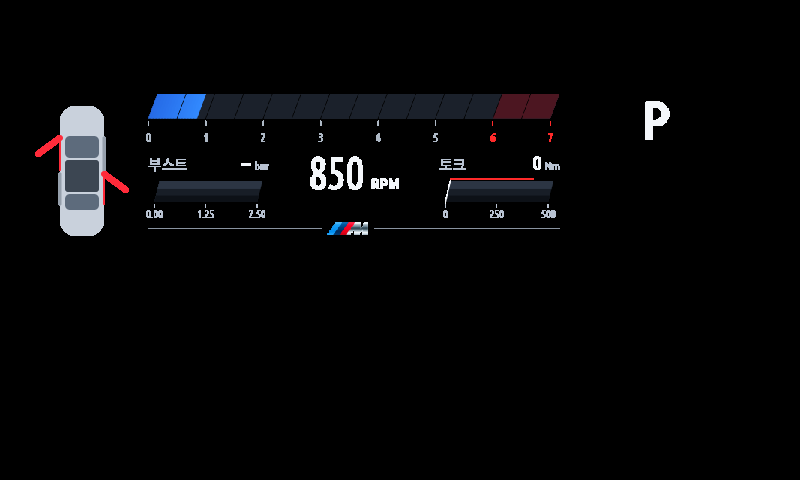
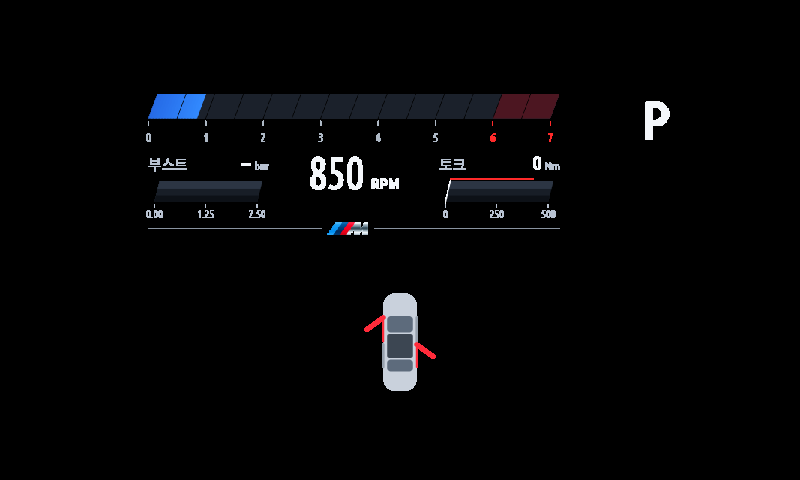
Cluster Redline 1.3.20: door-open picture in the middle, with Position / size
The door-open picture sits in the middle of the HUD below the RPM face and the
turn arrows by default, and gets its own Position / size (move, size, hide,
preview with every door open) from Basic -> Door-open warning.

Claude-Session: https://claude.ai/code/session_01LR6i2U2cVprmp7fS2LvR7P

Changed region(s): [[0.0312, 0.2188, 0.1562, 0.5], [0.4375, 0.5938, 0.5625, 0.8125]]

diff --git a/apps/cluster_redline/settings-ui.js b/apps/cluster_redline/settings-ui.js
@@ -18,16 +18,17 @@ const RL_KEYS=Object.keys(DEFAULTS).filter(k=>/^(hud|cluster)Rl/.test(k)),defaul
 const TURN_KEYS=Object.keys(D.defaults).filter(k=>/^hudTurn/.test(k));
 const TURN_ITEM={key:'turn',label:'Turn signals on HUD',type:'action'};
 // Settings per driver (driver-profiles.js): kept outside app.json; main.js sets page.driverStatus.
-const DOOR_ITEM={key:'hudDoorAlert',label:'Door-open warning',type:'choice',options:[['on',tr('On')],['off',tr('Off')]]};
+const DOOR_ITEM={key:'hudDoorAlert',label:'Door-open warning',type:'action'};
+const DOOR_KEYS=Object.keys(D.defaults).filter(k=>/^hudDoor/.test(k));
 const DRIVER_ITEM={key:'driverProfiles',label:'Settings per driver',type:'choice',options:[['off',tr('Off')],['on',tr('On')]]};
 // Vehicle alerts (vehicle-alerts.js): kept outside app.json, like the turn signals.
 const ALERT_KEYS=Object.keys(D.defaults).filter(k=>/^hudCarAlert/.test(k));
 const ALERT_ITEM={key:'hudCarAlerts',label:'Vehicle alerts',type:'choice',options:[['off',tr('Off')],['speed',tr('Speeding')],['school',tr('School zone')],['camera',tr('Speed camera')],['all',tr('Show all')]]};
 // Screens whose buttons are the cursor's stops (layoutActions).
-const ACTION_SCREENS=['layout','layoutPresets','turn','navColor'];
+const ACTION_SCREENS=['layout','layoutPresets','turn','navColor','door'];
 const NAV_COLOR_LABELS={orange:'Orange',green:'Green',blue:'Blue',white:'White'};
 const TURN_STYLE_LABELS={arrow:'Default arrow',chevron3:'<<<  >>>',chevron:'<  >'},TURN_COLOR_LABELS={green:'Green',blue:'Blue',orange:'Orange'};
-const FAV_EXTRA=['clockZone','hudDesign','clusterDesign','comfortShiftRpm','clusterYieldGuidance','hudRlLayouts','clusterRlLayouts','navTextColor','hudDoorAlert'].concat(TURN_KEYS,ALERT_KEYS);
+const FAV_EXTRA=['clockZone','hudDesign','clusterDesign','comfortShiftRpm','clusterYieldGuidance','hudRlLayouts','clusterRlLayouts','navTextColor'].concat(DOOR_KEYS).concat(TURN_KEYS,ALERT_KEYS);
 function favKeys(schema){const skip=k=>k==='appEnabled'||k==='layoutPreview'||/LayoutSlot\d|^favorite\d|^_/.test(k);return schema.map(s=>s.key).concat(FAV_EXTRA,Object.keys(DEFAULTS).filter(k=>/^(hud|cluster)Rl/.test(k))).filter((k,i,a)=>!skip(k)&&a.indexOf(k)===i);}
 // Settings per driver (driver-profiles.js): the whole setup a favourite keeps, plus the favourites themselves, so each
 // driver has their own five favourites.
@@ -71,7 +72,7 @@ function vector(cv,x,y,s){
 }
 class SettingsPage{
  constructor(settings,changed,version){this.settings=settings;this.changed=changed||(()=>{});this.version=version;this.tab=0;this.focus=0;this.open=null;this.choice=0;this.layoutPart=0;this.layoutParam=0;this.draft=null;this.layoutActions=[];this.layoutSelected=new Set();}
- config(){const raw={};this.settings.schema.forEach(s=>{raw[s.key]=this.settings.get(s.key);});['clockZone','layoutPreview','hudDesign','clusterDesign','comfortShiftRpm','clusterYieldGuidance','navTextColor','hudDoorAlert'].concat(RL_KEYS,TURN_KEYS,ALERT_KEYS).forEach(k=>{if(raw[k]===undefined)raw[k]=this.settings.get(k);});return effective(raw);}
+ config(){const raw={};this.settings.schema.forEach(s=>{raw[s.key]=this.settings.get(s.key);});['clockZone','layoutPreview','hudDesign','clusterDesign','comfortShiftRpm','clusterYieldGuidance','navTextColor'].concat(RL_KEYS,TURN_KEYS,ALERT_KEYS,DOOR_KEYS).forEach(k=>{if(raw[k]===undefined)raw[k]=this.settings.get(k);});return effective(raw);}
  display(){return this.tab===2?'cluster':'hud';}
  keys(){return this.tab===FAV_TAB?[]:GROUPS[this.tab];}
  item(){const key=this.keys()[this.focus];if(key==='turn')return TURN_ITEM;if(key==='hudCarAlerts')return ALERT_ITEM;if(key==='driverProfiles')return DRIVER_ITEM;if(key==='hudDoorAlert')return DOOR_ITEM;if(key==='comfortShiftRpm')return COMFORT_ITEM;if(key==='clusterYieldGuidance')return YIELD_ITEM;if(['aux','design','layout'].includes(key))return {key,label:{aux:'Auxiliary information',design:'Design',layout:'Position / size'}[key],type:'action'};return this.settings.schema.find(s=>s.key===key);}
@@ -86,7 +87,7 @@ class SettingsPage{
   else if(this.open==='rlDesign'){this.open='design';this.choice=2;}
   else if(this.open==='auxSelect'){this.open='auxMode';this.draft=null;this.choice=0;}
   else if(this.open==='layoutPresets'){this.open='layout';this.choice=0;this.presetMessage='';}
-  else if(this.open==='layout'&&this.layoutKind==='turn'){this.setPreview(false);this.layoutKind=null;this.open='turn';this.choice=0;}
+  else if(this.open==='layout'&&(this.layoutKind==='turn'||this.layoutKind==='door')){this.setPreview(false);this.open=this.layoutKind;this.layoutKind=null;this.choice=0;}
   else{if(this.open==='layout')this.setPreview(false);this.open=null;this.draft=null;this.layoutKind=null;}
   this.changed();
  }
@@ -110,13 +111,14 @@ class SettingsPage{
   if(item.key==='comfortShiftRpm')return cfg.comfortShiftRpm?cfg.comfortShiftRpm+' rpm':tr('Automatic')+' · '+Math.round(cfg.shiftRpm*0.9/100)*100+' rpm';
   const selected=options(item,cfg).find(o=>o[0]===(item.key==='clusterYieldGuidance'||item.key==='hudCarAlerts'?cfg[item.key]:this.settings.get(item.key)));return selected?t(selected[1]):t('Check required');
  }
- change(delta){if(this.tab===FAV_TAB&&!this.open||this.open==='favView')return;if(this.open==='layoutPresets'||this.open==='turn'||this.open==='navColor')return;if(this.open==='layout'){this.adjust(this.layoutParam,delta);return;}const item=this.item(),list=options(item,this.config());if(!list.length){this.activate();return;}const at=list.findIndex(o=>o[0]===this.settings.get(item.key));this.settings.set(item.key,list[(at+delta+list.length)%list.length][0]);this.changed();}
+ change(delta){if(this.tab===FAV_TAB&&!this.open||this.open==='favView')return;if(this.open==='layoutPresets'||this.open==='turn'||this.open==='navColor'||this.open==='door')return;if(this.open==='layout'){this.adjust(this.layoutParam,delta);return;}const item=this.item(),list=options(item,this.config());if(!list.length){this.activate();return;}const at=list.findIndex(o=>o[0]===this.settings.get(item.key));this.settings.set(item.key,list[(at+delta+list.length)%list.length][0]);this.changed();}
  activate(index){
   if(index!==undefined)this.focus=index;
   if(this.tab===FAV_TAB&&!this.open){this.favAction(Math.floor(this.focus/3)+1,this.focus%3);return;}
   const item=this.item();if(!item)return;
   this.choice=0;
   if(item.key==='turn')this.open='turn';
+  else if(item.key==='hudDoorAlert')this.open='door';
   else if(item.key==='aux')this.open='auxMode';
   else if(item.key==='design'){this.open='design';this.choice=RL.active(this.config(),this.display())?2:this.config()[this.display()+'AlertStyle']==='circle'?1:0;}
   else if(item.key==='layout'){this.open='layout';this.layoutPart=0;this.layoutParam=0;this.layoutSelected=new Set([this.layoutParts()[0].key]);this.setPreview(true);}
@@ -159,6 +161,7 @@ class SettingsPage{
   if(this.open==='layout')this.drawLayout(cv,cfg,targets);
   else if(this.open==='layoutPresets')this.drawPresets(cv,cfg,targets);
   else if(this.open==='turn')this.drawTurn(cv,cfg,targets);
+  else if(this.open==='door')this.drawDoor(cv,cfg,targets);
   else if(this.open==='auxMode')this.drawAuxMode(cv,cfg,targets);
   else if(this.open==='auxSelect')this.drawAuxSelect(cv,cfg,targets);
   else if(this.open==='design')this.drawDesign(cv,cfg,targets);
@@ -304,6 +307,16 @@ class SettingsPage{
   const dir={off:'Off',left:'Left',right:'Right',both:'Both (hazards)'}[s.indicator]||String(s.indicator);
   return [head+': '+tr('received')+' '+s.received,tr(dir)+(s.drawnIn?' · '+tr(s.drawnIn==='redline-hud'?'in the Redline HUD':'overlay'):'')];
  }
+ // The door-open warning: on / off, what it does, and Position / size of its HUD picture.
+ drawDoor(cv,cfg,targets){
+  const local=[],set=(k,v)=>{this.settings.set(k,v);this.changed();};
+  cv.text(tr('Door-open warning'),100,126,32,'#ef4050',{literal:true});
+  [['on','On'],['off','Off']].forEach((o,i)=>this.button(cv,local,tr(o[1]),84+i*740,146,712,64,()=>set('hudDoorAlert',o[0]),cfg.hudDoorAlert===o[0],'door-'+o[0]));
+  cv.text(tr('While a door is open: the car on the HUD with the open doors in red; the cluster gives way to the car warning.'),100,262,24,'#c1cddd',{literal:true});
+  cv.text(this.doorValue(cfg),100,300,22,'#91a1b6',{literal:true});
+  this.button(cv,local,tr('Position / size'),84,448,700,64,()=>{this.layoutKind='door';this.open='layout';this.layoutPart=0;this.layoutParam=0;this.layoutSelected=new Set(['Door']);this.setPreview(true);this.changed();},false,'door-layout');
+  this.layoutActions=local;targets.push.apply(targets,local);this.backButton(cv,targets);
+ }
  // HUD turn signals: on / off, shape, colour, and Position / size (both, left, right).
  drawTurn(cv,cfg,targets){
   const local=[],set=(k,v)=>{this.settings.set(k,v);this.changed();};
@@ -336,8 +349,8 @@ class SettingsPage{
   this.layoutActions=local;targets.push.apply(targets,local);this.backButton(cv,targets);
  }
  // Parts placed by their own rectangle (navigation, turn signals) rather than measured on the face.
- rectKind(){return this.tab===3||this.layoutKind==='turn';}
- layoutParts(){return this.layoutKind==='turn'?D.TURN_PARTS:this.tab===3?D.NAV_LAYOUT_PARTS:D.partsFor(this.display(),this.config());}
+ rectKind(){return this.tab===3||this.layoutKind==='turn'||this.layoutKind==='door';}
+ layoutParts(){return this.layoutKind==='door'?D.DOOR_PARTS:this.layoutKind==='turn'?D.TURN_PARTS:this.tab===3?D.NAV_LAYOUT_PARTS:D.partsFor(this.display(),this.config());}
  // Tell the renderer which part is being adjusted so hidden or unused parts are drawn while moving them.
  previewValue(){const p=this.layoutParts()[this.layoutPart];return p?(this.tab===3?'nav':this.display())+':'+p.key+'@'+Date.now():'';}
  // Refresh the marker only when the part changed or it is a minute old (it expires after two).
@@ -527,7 +540,7 @@ class SettingsPage{
   const refresh=this.previewRefresh();if(refresh.layoutPreview!==undefined)this.settings.set('layoutPreview',refresh.layoutPreview);this.changed();}
  rlRect(cfg,p){const display=this.display(),face=display==='hud'?placement(cfg,'hud',HUD):{x:0,y:0,w:CLUSTER.W,h:CLUSTER.H},layout=RL.rect(cfg,face,display);if(p.key==='RpmGauge')return layout;const shown=RL.placed({config:cfg,rpm:0,gear:'--',aux:{}},layout,display,face).find(v=>v.key===p.key);if(shown)return shown.r;const e=RL.elements(cfg,display).find(v=>v.key===p.key),b=e&&RL.bounds({config:cfg,rpm:0,gear:'--',aux:{}},e.id,display);return b?RL.clampTo(RL.partRect(cfg,layout,b,e.key,display),RL.room(face,display)):layout;}
  drawLayout(cv,cfg,targets){
-  const local=[],nav=this.rectKind(),turn=this.layoutKind==='turn',display=this.display(),parts=this.layoutParts();this.layoutPart=Math.min(this.layoutPart,parts.length-1);
+  const local=[],nav=this.rectKind(),turn=this.layoutKind==='turn'||this.layoutKind==='door',display=this.display(),parts=this.layoutParts();this.layoutPart=Math.min(this.layoutPart,parts.length-1);
   // Five columns, or six when a layout has many elements (two rows with Save / load in the last cell).
   const columns=parts.length>=10?6:5,cell=columns===6?243:292;
   parts.forEach((p,i)=>this.button(cv,local,tr(p.label),84+(i%columns)*cell,96+Math.floor(i/columns)*62,cell-14,56,()=>this.selectLayoutPart(i),this.layoutSelected.has(p.key),'part'+i));
@@ -544,7 +557,8 @@ class SettingsPage{
    cv.text(label,790,y+20,28,'#b8c5d4');btn('−',1010,y+26,()=>this.adjust(i+2,-1),'size-minus'+i);btn('+',1140,y+26,()=>this.adjust(i+2,1),'size-plus'+i);cv.text(!nav&&group.length>1&&!uniform?cfg[prefix+'WidthScale']+' × '+cfg[prefix+'HeightScale']+' %':String(cfg[key])+' %',1500,y+67,30,'#f3f5f7',{align:'right',font:'num'});
   });
   let width,height;
-  if(turn){const rect=D.turnRect(cfg,selected.key==='TurnRight'?'right':'left');width=rect.w;height=rect.h;}
+  if(this.layoutKind==='door'){const rect=D.doorRect(cfg);width=rect.w;height=rect.h;}
+  else if(turn){const rect=D.turnRect(cfg,selected.key==='TurnRight'?'right':'left');width=rect.w;height=rect.h;}
   else if(nav){const rect=D.navRect(cfg,selected.key);width=rect.w;height=rect.h;}
   else if(RL.active(cfg,display)){const face=display==='hud'?placement(cfg,'hud',HUD):{x:0,y:0,w:CLUSTER.W,h:CLUSTER.H},layout=RL.rect(cfg,face,display),e=RL.elements(cfg,display).find(v=>v.key===selected.key),b=e&&RL.bounds({config:cfg,rpm:0,gear:'--',aux:{}},e.id,display),r=b?RL.clampTo(RL.partRect(cfg,layout,b,e.key,display),RL.room(face,display)):layout;width=r.w;height=r.h;}
   else{const painter=display==='hud'?HUD:CLUSTER,b=measurePart(painter,{config:cfg,rpm:0,gear:this.liveState&&this.liveState.gear||'--'},display,selected.key,cv)||{w:0,h:0},r=placement(cfg,display==='hud'?'hud':cfg.displayTarget==='panel'?'panel':'map',painter);width=Math.round(b.w*cfg[prefix+'WidthScale']/100*r.w/painter.W);height=Math.round(b.h*cfg[prefix+'HeightScale']/100*r.h/painter.H);}

diff --git a/tests/cluster_redline/door-alert.test.js b/tests/cluster_redline/door-alert.test.js
@@ -9,12 +9,18 @@ assert.deepStrictEqual(D.openDoors({value:{statusDoorSwitchDRD:0,statusDoorSwitc
 assert.strictEqual(D.openDoors({other:1}),null,'names no door: keep what is known');
 const st=new D.DoorState();st.sample({statusDoorSwitchPSD:1},0);assert.deepStrictEqual(st.open,['passengerFront']);st.sample({x:1},10);assert.deepStrictEqual(st.open,['passengerFront']);st.sample({statusDoorSwitchPSD:0},20);assert.deepStrictEqual(st.open,[]);assert.strictEqual(st.received,3);
 // overlay (stub drawing: the kit canvas is not loaded on the host)
-const Module=require('module'),orig=Module._load;Module._load=function(r){if(r==='./kit/canvas')return {Canvas:class{constructor(w,h){this.w=w;this.h=h;this.d=new Uint8Array(w*h*4);}clear(){}roundRect(){}line(){}}};return orig.apply(this,arguments);};
+const Module=require('module'),orig=Module._load;Module._load=function(r){if(r==='./kit/canvas'){class C{constructor(w,h){this.w=w;this.h=h;this.d=new Uint8Array(w*h*4);}clear(){}roundRect(){}line(){}}return {Canvas:C,ScaledCanvas:class{constructor(w,h,k){this.canvas=new C(Math.round(w*k),Math.round(h*k));}clear(){}roundRect(){}line(){}}};}return orig.apply(this,arguments);};
 const layers=new Map();let n=0,up=0;const client={image(o){layers.set(++n,Object.assign({},o));return n;},pixels(){up++;},set(r,o){Object.assign(layers.get(r),o);},drop(r){layers.delete(r);}};
-const ov=new D.DoorOverlay(client);ov.tick([]);assert.strictEqual(layers.size,0,'no door open: nothing');
-ov.tick(['driverFront']);const l=layers.get(1);assert(l.target==='hud'&&l.klass==='overlay'&&l.visible);assert.strictEqual(up,1);
-ov.tick(['driverFront']);assert.strictEqual(up,1,'unchanged: no pixels');ov.tick(['driverFront','passengerRear']);assert.strictEqual(up,2);
-ov.tick([]);assert.strictEqual(l.visible,false,'closed: hidden');ov.close();Module._load=orig;
+const DC=require('../../apps/cluster_redline/display-config'),c0=settings({});
+const ov=new D.DoorOverlay(client);ov.tick([],c0);assert.strictEqual(layers.size,0,'no door open: nothing');
+ov.tick(['driverFront'],c0);const l=layers.get(1);assert(l.target==='hud'&&l.klass==='overlay'&&l.visible);assert.strictEqual(up,1);
+const r0=DC.doorRect(c0);assert.deepStrictEqual([l.x,l.y,l.w,l.h],[r0.x,r0.y,r0.w,r0.h]);assert.strictEqual(r0.x+r0.w/2,400,'centred on the HUD by default');assert(r0.y+r0.h<=400,'inside what the HUD shows');
+['left','right'].forEach(side=>{const t=DC.turnRect(settings({}),side);assert(t.y+t.h<=r0.y||t.x+t.w<=r0.x||t.x>=r0.x+r0.w,'clear of the turn arrows');});
+ov.tick(['driverFront'],c0);assert.strictEqual(up,1,'unchanged: no pixels');ov.tick(['driverFront','passengerRear'],c0);assert.strictEqual(up,2);
+ov.tick(['driverFront'],settings({hudDoorOffsetX:40,hudDoorOffsetY:-20}));assert.deepStrictEqual([l.x,l.y],[r0.x+40,r0.y-20],'moved with Position / size');
+ov.tick(['driverFront'],settings({hudDoorScale:100}));assert.strictEqual(layers.get(1),undefined,'resized: a new layer');const l2=layers.get(2);assert.deepStrictEqual([l2.w,l2.h],[96,150]);
+ov.tick(['driverFront'],settings({hudDoorHidden:true}));assert.strictEqual(l2.visible,false,'hidden in Position / size');ov.tick(D.SAMPLE,settings({hudDoorHidden:true}));assert.strictEqual(layers.get(3)?layers.get(3).visible:l2.visible,true,'preview while adjusting');
+ov.tick([],c0);ov.close();Module._load=orig;
 // demand and settings
 const has=c=>Array.from(demand(settings(Object.assign({appEnabled:true,navDisplayMode:'stock'},c)),null).fields).includes('de.bmw.body.DoorsWindowsRoofMirrors.CentralLockingSystemAndPanelStatus');
 assert(has({}),'on by default');assert(!has({hudDoorAlert:'off'}),'off: not read');assert.strictEqual(settings({hudDoorAlert:'x'}).hudDoorAlert,'on');
@@ -30,6 +36,11 @@ assert.deepStrictEqual(m['de.bmw.body.DoorsWindowsRoofMirrors'],{instances:'1',a
  assert(t(1000).cluster.requested,'doors closed: the cluster shows');
  out.doorYield=true;let o=t(1200);assert(!o.cluster.requested,'a door open: the cluster gives way');assert.strictEqual(o.cluster.reason,'door_yield');assert(o.hud.requested,'the HUD stays');
  out.doorYield=false;assert(t(1400).cluster.requested,'closed again: back');out.close();}
+if(process.argv[2]){const pg=path.join(path.resolve(process.argv[2]),'source/javascript'),{SettingsPage}=require(pg+'/settings-ui'),{Canvas}=require(pg+'/kit/canvas'),spec=require(pg+'/kit/app-spec.json'),vals={};spec.settings.forEach(x=>{vals[x.key]=x.default;});
+ const page=new SettingsPage({schema:spec.settings,get:k=>vals[k],set:(k,v)=>{vals[k]=v;},onChange(){}},()=>{},'t');page.selectTab(0);page.focus=page.keys().indexOf('hudDoorAlert');page.activate();assert.strictEqual(page.open,'door');
+ const scr=()=>{const cv=new Canvas(1600,520);page.draw(cv,'',{});return cv.targets;};scr().find(t=>t.id==='door-off').run();assert.strictEqual(vals.hudDoorAlert,'off');scr().find(t=>t.id==='door-on').run();
+ scr().find(t=>t.id==='door-layout').run();assert.strictEqual(page.open,'layout');assert(/^hud:Door@/.test(vals.layoutPreview));page.adjust(0,1);page.adjust(2,1);assert.deepStrictEqual([vals.hudDoorOffsetX,vals.hudDoorScale],[10,80]);
+ page.back();assert.strictEqual(page.open,'door');assert.strictEqual(vals.layoutPreview,'');}
 if(process.argv[2]){const dir=path.join(path.resolve(process.argv[2]),'source/javascript'),R=require(path.join(dir,'door-alert'));const red=cv=>{let k=0;for(let i=0;i<cv.d.length;i+=4)if(cv.d[i]>200&&cv.d[i+1]<80&&cv.d[i+3]>200)k++;return k;};
  assert.strictEqual(red(R.draw([])),0,'all closed: no red');assert(red(R.draw(['driverFront']))>20,'an open door in red');assert(red(R.draw(['driverFront','passengerFront','driverRear','passengerRear']))>red(R.draw(['driverFront']))*3);}
-console.log('PASS: door-open warning: the cluster gives way while a door is open, door switches decoded, overlay while open (re-drawn on change), on by default, demand and install-time input'+(process.argv[2]?', drawn':''));
+console.log('PASS: door-open warning: centred by default, Position / size (move, size, hide, preview), the cluster gives way while a door is open, door switches decoded, overlay while open (re-drawn on change), on by default, demand and install-time input'+(process.argv[2]?', drawn':''));

diff --git a/apps/cluster_redline/strings.js b/apps/cluster_redline/strings.js
@@ -11,7 +11,7 @@ const KO={
  'Traffic signs':'교통 표지','Select Redline HUD in the current drive mode':'현재 주행 모드의 HUD를 레드라인 앱으로 선택하세요','Camera input missing · reinstall from Store':'카메라 신호 미설치 · 스토어에서 다시 설치','Waiting for camera sign data':'카메라 표지 데이터 수신 대기','Camera':'카메라','Combined recognition':'종합 인식','Alert data ready':'알림 표시 조건 충족','Camera data expired or disconnected':'카메라 데이터 만료 또는 연결 끊김','Combined input missing · reinstall from Store':'종합 인식 신호 미설치 · 스토어에서 다시 설치','Speed limit outside supported test range':'시험 지원 범위 밖 제한속도','No fresh matching sign · children alert lasts 6 s':'유효한 일치 표지 대기 · 어린이 알림은 6초 표시',
  'Save + new recording':'기록 저장 · 계속','Clear current records':'현재 기록 지우기','No records yet · recording started':'저장할 기록 없음 · 새 수집 시작','Saved · new recording':'저장 완료 · 새 수집 중','Save failed':'기록 저장 또는 재시작 실패',
  'Shown on the HUD whenever a turn signal or the hazards flash, even with the stock HUD.':'방향지시등·비상등이 깜빡이면 순정 HUD에서도 표시됩니다.',
- 'Turn signal input':'깜빡이 신호','Vehicle alerts':'차량 알림','Settings per driver':'운전자별 설정','Door-open warning':'문 열림 경고','Door open · cluster released for the car warning':'문 열림 · 순정 경고를 위해 계기판 양보','open':'열림','Hello':'안녕하세요','Driver':'운전자','driver not readable':'운전자 확인 불가','reading the driver':'운전자 확인 중','Arrow colour':'화살표 색','Text colour':'텍스트 색','Arrow':'화살표','Sample road':'강남대로','Orange':'주황색','Green':'초록색','Blue':'파란색','White':'흰색','Sign recognition':'표지 인식','Speed':'속도','Speeding':'과속','School zone':'어린이보호구역','Speed camera':'단속 카메라','Section camera':'구간 단속','In the zone':'구역 안','In the section':'구간 안','Show all':'전체 표시','route events not available yet':'길안내 이벤트 아직 없음','the car refused the alert query':'차가 알림 조회를 거부함','asked':'조회','no reply yet':'응답 없음','shown':'표시 중','not installed (reinstall from the Store)':'미설치 (스토어에서 다시 설치)','no value from the car yet':'차에서 값이 아직 안 옴','Left':'왼쪽','Right':'오른쪽','Both (hazards)':'양쪽(비상등)','in the Redline HUD':'레드라인 HUD에 표시','overlay':'오버레이로 표시',
+ 'Turn signal input':'깜빡이 신호','Vehicle alerts':'차량 알림','Settings per driver':'운전자별 설정','Door-open warning':'문 열림 경고','While a door is open: the car on the HUD with the open doors in red; the cluster gives way to the car warning.':'문이 열려 있는 동안: HUD에 차 그림(열린 문 빨간색)을 띄우고, 계기판은 차 순정 경고에 양보합니다.','Door open · cluster released for the car warning':'문 열림 · 순정 경고를 위해 계기판 양보','open':'열림','Hello':'안녕하세요','Driver':'운전자','driver not readable':'운전자 확인 불가','reading the driver':'운전자 확인 중','Arrow colour':'화살표 색','Text colour':'텍스트 색','Arrow':'화살표','Sample road':'강남대로','Orange':'주황색','Green':'초록색','Blue':'파란색','White':'흰색','Sign recognition':'표지 인식','Speed':'속도','Speeding':'과속','School zone':'어린이보호구역','Speed camera':'단속 카메라','Section camera':'구간 단속','In the zone':'구역 안','In the section':'구간 안','Show all':'전체 표시','route events not available yet':'길안내 이벤트 아직 없음','the car refused the alert query':'차가 알림 조회를 거부함','asked':'조회','no reply yet':'응답 없음','shown':'표시 중','not installed (reinstall from the Store)':'미설치 (스토어에서 다시 설치)','no value from the car yet':'차에서 값이 아직 안 옴','Left':'왼쪽','Right':'오른쪽','Both (hazards)':'양쪽(비상등)','in the Redline HUD':'레드라인 HUD에 표시','overlay':'오버레이로 표시',
  'Speed limit':'제한속도','Speed alert':'과속 알림',
  'Children caution':'어린이 주의','Sign detected':'표지 감지',
  'Traffic sign alerts · experimental':'교통 표지 알림 · 시험 기능','Recognised speed limit':'인식 제한속도','Children sign':'어린이 주의 표지','Speed limit + children':'제한속도 + 어린이 주의','Children · sign detected':'어린이 주의 · 표지 감지','Over limit':'속도 초과',

diff --git a/apps/cluster_redline/display-config.js b/apps/cluster_redline/display-config.js
@@ -26,6 +26,11 @@ const NAV_COLOR_NAMES=['orange','green','blue','white'];
 const ALERT_MODES=['off','speed','school','camera','all'];
 const ALERT_PART={key:'CarAlert',label:'Vehicle alerts',prefix:'hudCarAlert',scale:'hudCarAlertScale',w:330,h:150};
 const NAV_LAYOUT_PARTS=NAV_PARTS.concat([ALERT_PART]);
+// The door-open warning's picture (door-alert.js): placed by its own rectangle like the turn signals, in the middle
+// of the HUD below the RPM face by default; moved and sized in Basic → Door-open warning → Position / size.
+const DOOR_PARTS=[{key:'Door',label:'Door-open warning',prefix:'hudDoor',scale:'hudDoorScale',w:96,h:150}];
+function doorRect(cfg){const s=(cfg.hudDoorScale||75)/100,w=Math.round(96*s),h=Math.round(150*s);return {x:Math.round((800-w)/2+(cfg.hudDoorOffsetX||0)),y:Math.round(286+(cfg.hudDoorOffsetY||0)),w,h};}
+Object.assign(defaults,{hudDoorOffsetX:0,hudDoorOffsetY:0,hudDoorScale:75,hudDoorHidden:false});
 Object.assign(defaults,{hudDoorAlert:'on',navTextColor:'white',hudCarAlerts:'off',hudCarAlertOffsetX:-260,hudCarAlertOffsetY:30,hudCarAlertScale:70,hudCarAlertHidden:false});
 ['hud','cluster'].forEach(d=>{
  defaults[d+'AuxConfig']=JSON.stringify({mode:'gauges',items:['boost','torque']});
@@ -73,7 +78,9 @@ function normalize(raw,out){
  out.hudTurnSignals=raw.hudTurnSignals==='on'?'on':'off';out.hudTurnStyle=TURN_STYLES.includes(raw.hudTurnStyle)?raw.hudTurnStyle:'arrow';out.hudTurnColor=Object.prototype.hasOwnProperty.call(TURN_COLORS,raw.hudTurnColor)?raw.hudTurnColor:'green';
  TURN_PARTS.forEach(p=>{['OffsetX','OffsetY'].forEach(s=>{const v=raw[p.prefix+s];if(typeof v==='number'&&isFinite(v))out[p.prefix+s]=Math.max(-1000,Math.min(1000,Math.round(v)));});out[p.prefix+'Hidden']=raw[p.prefix+'Hidden']===true;});
  if(typeof raw.hudTurnScale==='number'&&isFinite(raw.hudTurnScale))out.hudTurnScale=Math.max(20,Math.min(300,Math.round(raw.hudTurnScale/5)*5));
- out.hudDoorAlert=raw.hudDoorAlert==='off'?'off':'on';
+ out.hudDoorAlert=raw.hudDoorAlert==='off'?'off':'on';out.hudDoorHidden=raw.hudDoorHidden===true;
+ ['OffsetX','OffsetY'].forEach(s=>{const v=raw['hudDoor'+s];if(typeof v==='number'&&isFinite(v))out['hudDoor'+s]=Math.max(-1000,Math.min(1000,Math.round(v)));});
+ if(typeof raw.hudDoorScale==='number'&&isFinite(raw.hudDoorScale))out.hudDoorScale=Math.max(20,Math.min(200,Math.round(raw.hudDoorScale/5)*5));
  out.hudCarAlerts=ALERT_MODES.includes(raw.hudCarAlerts)?raw.hudCarAlerts:'off';out.hudCarAlertHidden=raw.hudCarAlertHidden===true;
  ['OffsetX','OffsetY'].forEach(s=>{const v=raw['hudCarAlert'+s];if(typeof v==='number'&&isFinite(v))out['hudCarAlert'+s]=Math.max(-1000,Math.min(1000,Math.round(v)));});
  if(typeof raw.hudCarAlertScale==='number'&&isFinite(raw.hudCarAlertScale))out.hudCarAlertScale=Math.max(20,Math.min(200,Math.round(raw.hudCarAlertScale/5)*5));
@@ -120,4 +127,4 @@ function visibleMetrics(cfg,display){const a=auxConfig(cfg[display+'AuxConfig'])
  if(cfg[display+'Design']&&cfg[display+'Design']!=='own')return a.items.slice(0,4);return metricSlots(a.items).filter(s=>!cfg[display+(s.side?'AuxRight':'AuxLeft')+'Hidden']).map(s=>s.id);}
 function faceVisible(cfg,d){if(cfg[d+'Design']&&cfg[d+'Design']!=='own')return !cfg[d+'RpmGaugeHidden']&&partsFor(d,cfg).some(p=>p.key!=='RpmGauge'&&!cfg[d+p.key+'Hidden']);return partsFor(d,cfg).some(p=>!cfg[d+p.key+'Hidden'])||(d==='hud'?!cfg.hudMarkLineHidden:!cfg.clusterMarkTopLineHidden||!cfg.clusterMarkBottomLineHidden);}
 function faceRpmNeeded(cfg,d){return !cfg[d+'RpmGaugeHidden']||!cfg[d+'RpmValueHidden']||!cfg[d+'AlertHidden']&&(d!=='hud'||cfg.hudAlertStyle!=='circle'||!cfg.hudGearHidden)||visibleMetrics(cfg,d).includes('power');}
-module.exports={NAV_COLORS,NAV_COLOR_NAMES,ALERT_MODES,ALERT_PART,NAV_LAYOUT_PARTS,allOutput,rpmOutputPossible,TURN_STYLES,TURN_COLORS,TURN_PARTS,turnRect,turnSides,turnCount,METRICS,GAUGE_ONLY,HUD_DESIGNS,layoutPreview,clockText,LABELS,PARTS,PART_LABELS,NAV_PARTS,RL_PARTS,defaults,normalize,auxConfig,metricSlots,sportMode,navAllowed,navVisible,navRect,rpmOutput,partsFor,visibleMetrics,faceVisible,faceRpmNeeded};
+module.exports={DOOR_PARTS,doorRect,NAV_COLORS,NAV_COLOR_NAMES,ALERT_MODES,ALERT_PART,NAV_LAYOUT_PARTS,allOutput,rpmOutputPossible,TURN_STYLES,TURN_COLORS,TURN_PARTS,turnRect,turnSides,turnCount,METRICS,GAUGE_ONLY,HUD_DESIGNS,layoutPreview,clockText,LABELS,PARTS,PART_LABELS,NAV_PARTS,RL_PARTS,defaults,normalize,auxConfig,metricSlots,sportMode,navAllowed,navVisible,navRect,rpmOutput,partsFor,visibleMetrics,faceVisible,faceRpmNeeded};

diff --git a/apps/cluster_redline/door-alert.js b/apps/cluster_redline/door-alert.js
@@ -2,10 +2,11 @@
 // The door-open HUD warning: the car seen from above, an open door drawn open in red, while any door is open (also
 // standing still). From DoorsWindowsRoofMirrors.CentralLockingSystemAndPanelStatus (added at install by
 // traffic-config.js), each door's switch: open = 1 or a ..._OFFEN name, as appsKOR's Ambient Config reads it.
-// Its own overlay layer, left of the RPM face. Pixels are sent only when the set of open doors changes.
+// Its own overlay layer, placed by display-config doorRect (middle of the HUD below the RPM face by default, moved and
+// sized in Basic → Door-open warning → Position / size). Pixels are sent only when the open doors or the size change.
 const IFACE='de.bmw.body.DoorsWindowsRoofMirrors',FIELD='CentralLockingSystemAndPanelStatus';
 const DOORS={statusDoorSwitchDRD:'driverFront',statusDoorSwitchPSD:'passengerFront',statusDoorSwitchDRDR:'driverRear',statusDoorSwitchPSDR:'passengerRear'};
-const W=96,H=150,X=34,Y=96;
+const W=96,H=150;
 const RED='#ff2b3a',BODY='#c9d1dc',GLASS='#5d6b7c';
 /** The open doors in a status value (a field however it is wrapped), or null when it names none of them. */
 function openDoors(v){
@@ -32,17 +33,27 @@ function paint(cv,open){
  return cv;
 }
 function draw(open){const {Canvas}=require('./kit/canvas');const cv=new Canvas(W,H);cv.clear([0,0,0,0]);return paint(cv,open||[]);}
+// At w x h (the Position / size scale), anti-aliased at that size rather than resampled.
+function drawSized(open,w,h){const {ScaledCanvas}=require('./kit/canvas');const cv=new ScaledCanvas(W,H,Math.min(w/W,h/H));cv.clear([0,0,0,0]);paint(cv,open||[]);return cv.canvas;}
 class DoorOverlay{
- constructor(client){this.client=client;this.ref=0;this.key=null;this.visible=false;}
- tick(open){
-  if(!open||!open.length){this.hide();return false;}
-  if(!this.ref){this.ref=this.client.image({target:'hud',klass:'overlay',z:12,x:X,y:Y,w:W,h:H,iw:W,ih:H,visible:false});if(!this.ref)return false;}
+ constructor(client){this.client=client;this.layer=null;}
+ // open: the open doors (none: hidden); cfg: settings for the place and size.
+ tick(open,cfg){
+  if(!open||!open.length||cfg.hudDoorHidden&&!open.preview){this.hide();return false;}
+  const r=require('./display-config').doorRect(cfg);let l=this.layer;
+  if(l&&(l.w!==r.w||l.h!==r.h)){this.client.drop(l.ref);l=this.layer=null;}
+  if(!l){const ref=this.client.image({target:'hud',klass:'overlay',z:12,x:r.x,y:r.y,w:r.w,h:r.h,iw:r.w,ih:r.h,visible:false});if(!ref)return false;l=this.layer={ref,x:r.x,y:r.y,w:r.w,h:r.h,key:null,visible:false};}
   const key=open.slice().sort().join(',');
-  if(this.key!==key){const cv=draw(open);this.client.pixels(this.ref,null,Buffer.from(cv.d.buffer,cv.d.byteOffset,cv.d.byteLength));this.key=key;}
-  if(!this.visible){this.client.set(this.ref,{visible:true});this.visible=true;}
+  if(l.key!==key){const im=drawSized(open,r.w,r.h),px=Buffer.alloc(r.w*r.h*4);
+   for(let y=0;y<Math.min(r.h,im.h);y++)Buffer.from(im.d.buffer,im.d.byteOffset+y*im.w*4,Math.min(r.w,im.w)*4).copy(px,y*r.w*4);
+   this.client.pixels(l.ref,null,px);l.key=key;}
+  if(l.x!==r.x||l.y!==r.y){this.client.set(l.ref,{x:r.x,y:r.y});l.x=r.x;l.y=r.y;}
+  if(!l.visible){this.client.set(l.ref,{visible:true});l.visible=true;}
   return true;
  }
- hide(){if(this.ref&&this.visible){this.client.set(this.ref,{visible:false});this.visible=false;}}
- close(){if(this.ref)this.client.drop(this.ref);this.ref=0;this.key=null;this.visible=false;}
+ hide(){const l=this.layer;if(l&&l.visible){this.client.set(l.ref,{visible:false});l.visible=false;}}
+ close(){if(this.layer)this.client.drop(this.layer.ref);this.layer=null;}
 }
-module.exports={IFACE,FIELD,DOORS,openDoors,DoorState,DoorOverlay,draw,paint,W,H,X,Y};
+// the Position / size preview: every door open
+const SAMPLE=Object.assign(['driverFront','passengerFront','driverRear','passengerRear'],{preview:true});
+module.exports={IFACE,FIELD,DOORS,openDoors,DoorState,DoorOverlay,draw,drawSized,paint,SAMPLE,W,H};

diff --git a/apps/cluster_redline/worker.js b/apps/cluster_redline/worker.js
@@ -419,7 +419,7 @@ function start(ctx) {
             // The driver greeting (settings per driver), once the renderer can take it.
             // a door switch lost with its provider or an error: no stale open door on the HUD
             if (doorSub && doorSub.error || config.hudDoorAlert === 'off') doors.clear();
-            doorOverlay.tick(live && config.appEnabled && config.hudDoorAlert !== 'off' ? doors.open : null);
+            doorOverlay.tick(pv && pv.part === 'Door' ? DOOR.SAMPLE : live && config.appEnabled && config.hudDoorAlert !== 'off' ? doors.open : null, config);
             driverGreeting.setHybrid(config.engineProfile === 'hybrid');
             driverGreeting.engine(controller.policy.rpm, controller.policy.rpmAt !== null && at - controller.policy.rpmAt <= 2500);
             greetingOverlay.tick(driverGreeting.read(live && config.appEnabled && !!client.ready && String(client.targets || '').indexOf('hud:') >= 0));

diff --git a/apps/cluster_redline/outputs.js b/apps/cluster_redline/outputs.js
@@ -79,7 +79,7 @@ class Outputs {
         this.turnInLayer=turnInLayer;
         order.forEach((name) => {
             // Turn signal parts are previewed on their own overlay layers (turn-overlay.js), not by the Redline face.
-            const out=this[name],pv=preview&&preview.display===name&&!/^(Turn|CarAlert)/.test(preview.part||'')?preview:null,local=pv?previewConfig(cfg,name,pv):cfg;
+            const out=this[name],pv=preview&&preview.display===name&&!/^(Turn|CarAlert|Door)/.test(preview.part||'')?preview:null,local=pv?previewConfig(cfg,name,pv):cfg;
             const rpm=pv&&pv.tab!=='nav'?true:rpmOutput(local,name==='hud'?'Hud':'Cluster',this.policy.mode)&&D.faceVisible(local,name);
             const navigation=pv&&pv.tab==='nav'?sampleNavigation():this.navigation;
             const nav=name==='hud'&&(pv&&pv.tab==='nav'||navAllowed(local,this.policy.mode)&&navigation&&navigation.visible);

diff --git a/README.md b/README.md
@@ -8,7 +8,7 @@ their ID7 restrictions. Listing visibility does not enable ID8 installation.
 
 **Made by 잼님 (jaimeen77)** · Download: [github.com/jaimeen77-cmyk/apps](https://github.com/jaimeen77-cmyk/apps) · MGU Store source: `jaimeen77-cmyk/apps` (branch `main`) · Blog: [blog.naver.com/jaimeen77](https://blog.naver.com/jaimeen77) · Korean guide: [설치·사용 설명서](docs/CLUSTER-REDLINE.ko.md)
 
-**Cluster Redline 1.3.19** (now permission required, see License below): door-open warning on the HUD; settings, favourites and layout slots per driver, shown by name, with a HUD greeting at engine start; navigation arrow and text colours (orange / green / blue / white); vehicle alerts on the HUD (speeding and children signs from the camera sign recognition, speed cameras); HUD turn signals work (the light module is now subscribed), in the Redline HUD while it shows, on their own overlay layers over the stock HUD, Position / size preview ends when the screen is left, battery voltage kept through missed replies; all modes RPM display can leave out Sport modes (cluster and HUD), turn signal arrows on the HUD (shape, colour, position); cluster released while guidance shows on the HUD (Waze included), tuned HUD layout defaults, outside temperature fix (1.2.8: Redline layouts element by element, Korean time for the clock). **iDrive Circuit 1.0.5** and **MGU Monitor 1.1.7** (Log history tab: daily averages and average use by app) are also available.
+**Cluster Redline 1.3.20** (now permission required, see License below): door-open warning on the HUD (adjustable position); settings, favourites and layout slots per driver, shown by name, with a HUD greeting at engine start; navigation arrow and text colours (orange / green / blue / white); vehicle alerts on the HUD (speeding and children signs from the camera sign recognition, speed cameras); HUD turn signals work (the light module is now subscribed), in the Redline HUD while it shows, on their own overlay layers over the stock HUD, Position / size preview ends when the screen is left, battery voltage kept through missed replies; all modes RPM display can leave out Sport modes (cluster and HUD), turn signal arrows on the HUD (shape, colour, position); cluster released while guidance shows on the HUD (Waze included), tuned HUD layout defaults, outside temperature fix (1.2.8: Redline layouts element by element, Korean time for the clock). **iDrive Circuit 1.0.5** and **MGU Monitor 1.1.7** (Log history tab: daily averages and average use by app) are also available.
 
 [한국어](README.ko.md)
 
@@ -19,7 +19,7 @@ their ID7 restrictions. Listing visibility does not enable ID8 installation.
 | Use MGU Monitor | [MGU Monitor](apps/storage/README.md) | [MGU 모니터](apps/storage/README.ko.md) |
 | Use Circuit | [Circuit](apps/idrive_circuit/README.md) | [회로 퍼즐](apps/idrive_circuit/README.ko.md) |
 
-Add MGU Store source **`jaimeen77-cmyk/apps`**, branch **`main`**, refresh and choose Korean or English. Redline requires **`cluster-render` 0.4.0+**. Update existing installs in Installed and check **v1.3.19** in the app. Stop and disable auto-start in an unused language edition if both are installed.
+Add MGU Store source **`jaimeen77-cmyk/apps`**, branch **`main`**, refresh and choose Korean or English. Redline requires **`cluster-render` 0.4.0+**. Update existing installs in Installed and check **v1.3.20** in the app. Stop and disable auto-start in an unused language edition if both are installed.
 
 | HUD circle | HUD bar |
 |---|---|

diff --git a/docs/CLUSTER-REDLINE.ko.md b/docs/CLUSTER-REDLINE.ko.md
@@ -60,7 +60,7 @@
 | 앱 자동 켜짐 | 켜짐 / 꺼짐 | 다음 시동(앱 시작) 때 자동으로 표시를 시작할지 정합니다. |
 | 앱 실행 | 앱 켜기 / 앱 끄기 | 지금 바로 표시를 시작·중지합니다. 꺼도 설정 화면은 그대로 쓸 수 있습니다. |
 | 운전자별 설정 | 꺼짐(기본) / 켜짐 | 켜면 차의 현재 사용자(운전자 프로필)에 따라 설정을 따로 기억합니다. 아래 3-1. |
-| 문 열림 경고 | 켜짐(기본) / 꺼짐 | 문이 열려 있는 동안(정차 중에도) HUD 왼쪽에 차 그림을 띄우고 열린 문을 빨갛게 표시합니다. 계기판의 레드라인 화면은 비켜서 차 순정 문 열림 경고가 보이게 합니다. 아래 3-2. |
+| 문 열림 경고 | 켜짐(기본) / 꺼짐, 위치 / 크기 | 문이 열려 있는 동안(정차 중에도) HUD 가운데에 차 그림을 띄우고 열린 문을 빨갛게 표시합니다. 계기판의 레드라인 화면은 비켜서 차 순정 문 열림 경고가 보이게 합니다. 아래 3-2. |
 | 차량 프리셋 | 가솔린 / 디젤 / eDrive (플러그인 하이브리드) / M | RPM 눈금과 변속 알림 기본값을 정합니다. 차를 자동으로 알아보는 기능은 아닙니다. |
 | 마력 단위 | PS / kW | 마력 표시 단위입니다. |
 | 토크 단위 | Nm / kgf·m | 토크 표시 단위입니다. |
@@ -77,9 +77,13 @@
 
 ![문 열림 HUD 경고](../screenshots/guide/hud-door-open.png)
 
-- 문 4개(운전석·조수석·뒷좌석 좌우) 중 하나라도 열려 있으면 HUD 왼쪽(RPM 화면 옆)에 위에서 본 차 그림을 띄우고, 열린 문을 빨갛게 열린 모양으로 그립니다. 모두 닫히면 사라집니다. 정차 중에도 계속 보입니다.
+- 문 4개(운전석·조수석·뒷좌석 좌우) 중 하나라도 열려 있으면 HUD 가운데(RPM 화면과 깜빡이 화살표 아래)에 위에서 본 차 그림을 띄우고, 열린 문을 빨갛게 열린 모양으로 그립니다. 모두 닫히면 사라집니다. 정차 중에도 계속 보입니다.
 - 차의 문 상태 신호(`DoorsWindowsRoofMirrors`, appsKOR Ambient Config가 쓰는 것과 같은 신호)를 읽기만 합니다. 설치할 때 차 목록에 있으면 넣으므로, **1.3.19로 스토어에서 업데이트(다시 설치)**해야 동작합니다.
 - 줄 오른쪽에 `켜짐 · 열림 2`처럼 지금 열린 문 수가 나옵니다. `미설치 (스토어에서 다시 설치)`가 나오면 설치 패키지에 문 신호가 없는 것입니다.
+- **위치 / 크기**: 기본설정 → 문 열림 경고 → **위치 / 크기**에서 그림을 옮기고 키우고 숨깁니다. 조정하는 동안에는 문 4개가 모두 열린 그림이 HUD에 보입니다. 운전자별 설정·즐겨찾기에도 함께 저장됩니다.
+
+![문 열림 경고 위치 / 크기](../screenshots/guide/settings-door-position.png)
+
 - **계기판 양보**: 문이 열려 있는 동안 계기판 가운데의 레드라인 화면을 끄고, 차가 띄우는 순정 문 열림 경고가 가려지지 않게 합니다. 문이 모두 닫히고 2초 뒤 다시 나옵니다. 길안내 양보와 같은 방식이며 HUD는 그대로입니다.
 - 차는 문이 바뀔 때만 상태를 보내므로, 앱이 켜진 뒤 문을 처음 여닫을 때부터 표시됩니다.
 

diff --git a/CHANGELOG.md b/CHANGELOG.md
@@ -2,6 +2,10 @@
 
 Version history is kept here. For current usage, see [Cluster Redline](docs/CLUSTER-REDLINE.ko.md).
 
+## Cluster Redline 1.3.20
+
+- The door-open picture now sits **in the middle of the HUD** below the RPM face and the turn arrows (75 % size), and has its own **Position / size** (Basic → Door-open warning → Position / size: move, size, hide; the preview shows every door open). The Basic row opens a door-open warning screen (on / off, what it does, the input state). The place and size go with settings per driver and favourites.
+
 ## Cluster Redline 1.3.19
 
 - **Door-open HUD warning** (Basic tab, on by default): while any of the four doors is open, also standing still, the HUD shows the car from above left of the RPM face, open doors drawn open in red (`door-alert.js`, its own overlay; re-drawn only when the open doors change). From `DoorsWindowsRoofMirrors.CentralLockingSystemAndPanelStatus` (each door's switch, open = 1 or `..._OFFEN`, as appsKOR's Ambient Config reads it), added read-only at install when the car's catalog has it (`traffic-config.js`; desktop installer patch v17 the same). The row shows how many doors are open, or that the input is not installed.
